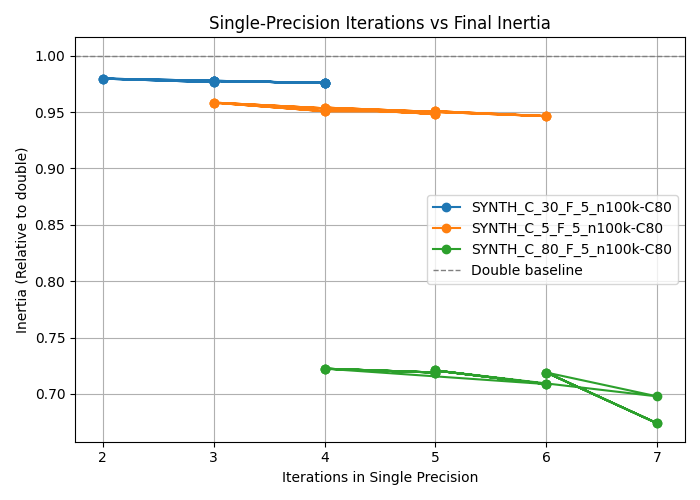
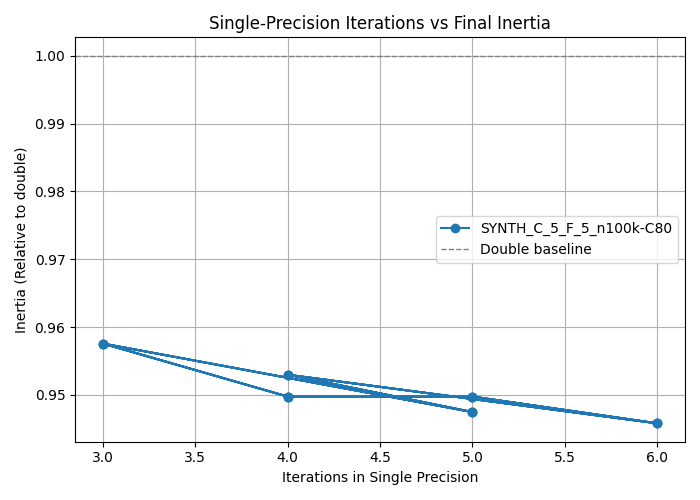
update

diff --git a/datasets/utils.py b/datasets/utils.py
@@ -29,9 +29,9 @@ def load_susy(n_rows=1_000_000):
 
 synth_specs = [
     # number of samples; number of features, number of clusters, random seeds
-    ("SYNTH_C_5_F_5_n100k", 1000_000, 5,  5, 0),
-    ("SYNTH_C_80_F_5_n100k", 10000_00, 5, 80, 1),
-    ("SYNTH_C_30_F_5_n100k", 10000_00, 5, 30, 1)
+    ("SYNTH_C_5_F_5_n100k", 500_000, 5,  5, 0),
+    # ("SYNTH_C_80_F_5_n100k", 10000_00, 5, 80, 1),
+    # ("SYNTH_C_30_F_5_n100k", 10000_00, 5, 30, 1)
 ]
 
 # Real-dataset

diff --git a/kmeans_main.py b/kmeans_main.py
@@ -91,7 +91,7 @@ all_rows = []
 
 # rows_A = []
 # rows_B = []
-rows_C = []
+# rows_C = []
 rows_D = []
 
 for tag, n, d, k, seed in synth_specs:
